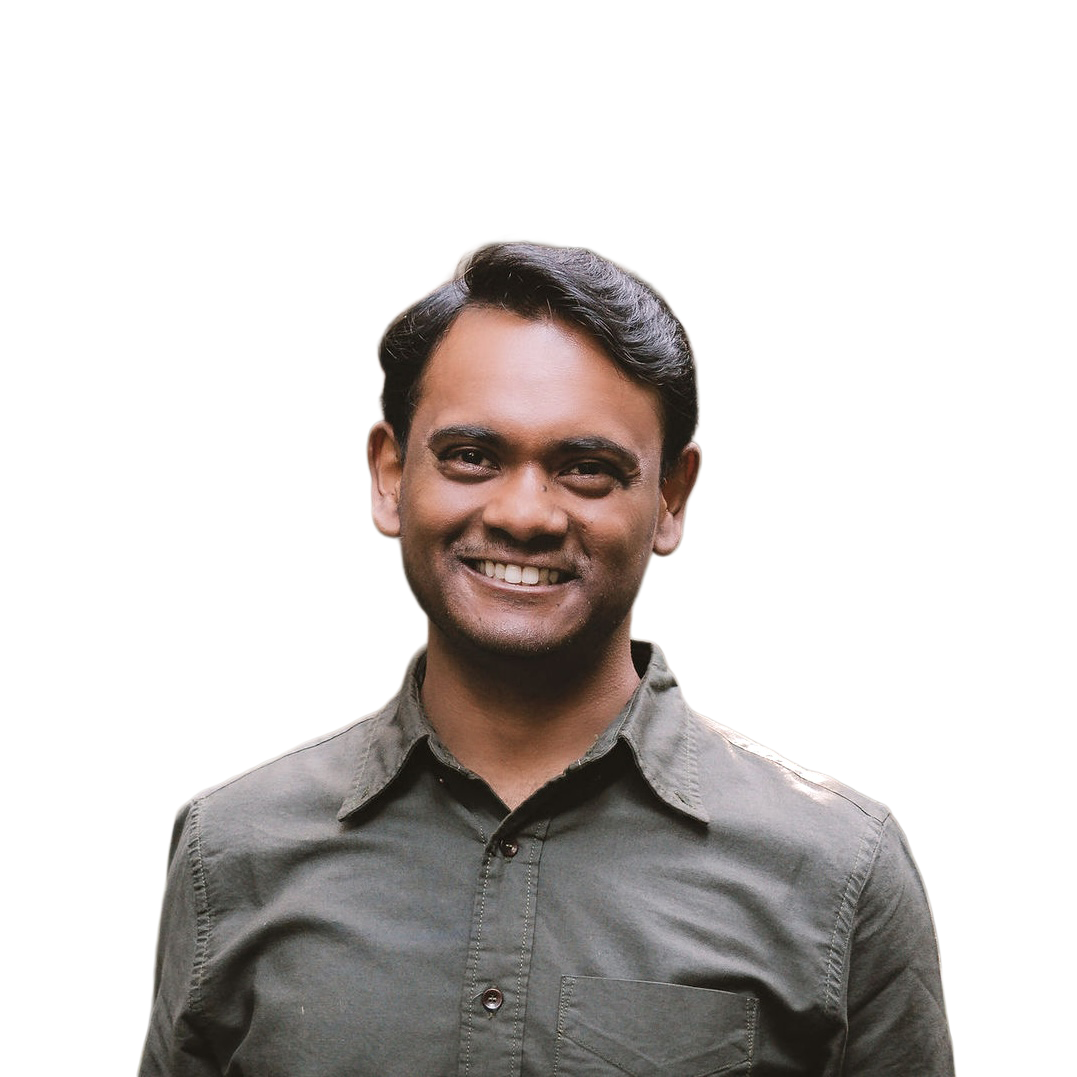
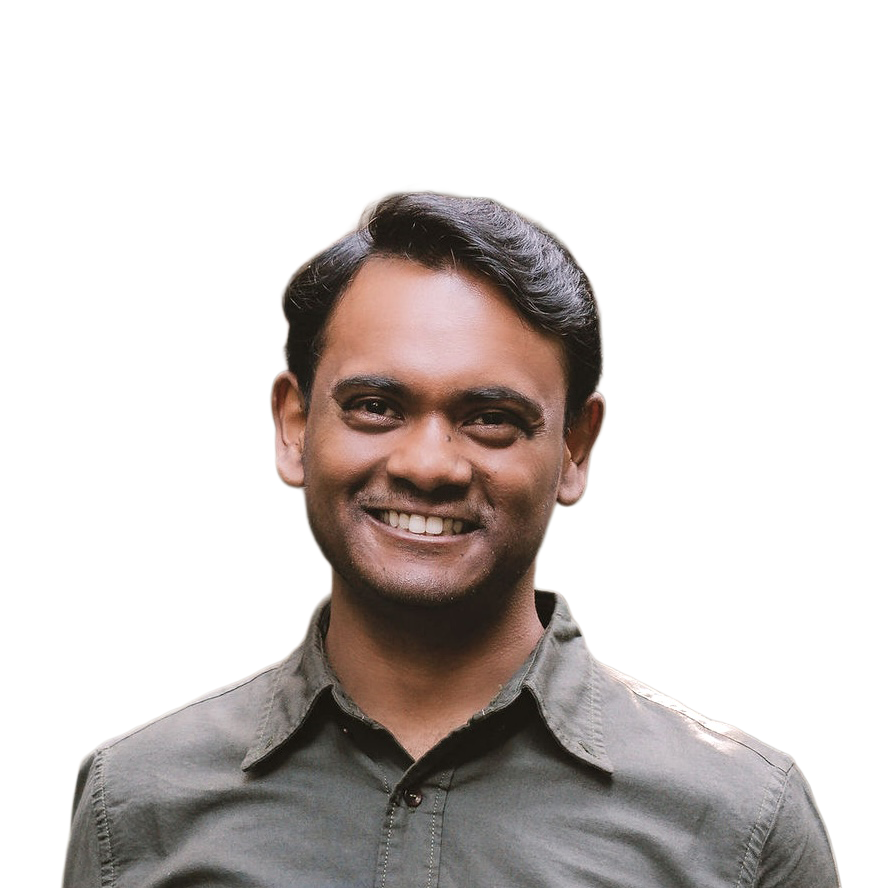
fix: simplify bg

diff --git a/src/pages/Home.tsx b/src/pages/Home.tsx
@@ -43,21 +43,6 @@ interface Post {
 export const Home = () => {
   const highlightColor = useColorModeValue(accent.light, accent.dark);
 
-  // Create a more realistic gradient with better color stops
-  const gradientStartColor = useColorModeValue(
-    "#E8F1F8", // subtle blue tint at center
-    "#4A433B", // lighter brown at center for depth
-  );
-  const gradientMidColor = useColorModeValue(
-    "#F5F8FB", // intermediate light blue
-    "#3A332B", // base dark brown
-  );
-  const gradientEndColor = useColorModeValue(
-    "#FFFFFF", // pure white at edges for seamless blend
-    "rgba(0, 0, 0, 0.4)", // darker shadow at edges
-  );
-  const borderColor = useColorModeValue("gray.100", "accentBackground");
-
   const featuredPosts = (featuredData as Post[]).filter(
     (post) => post.featured,
   );
@@ -80,14 +65,8 @@ export const Home = () => {
                 overflow="hidden"
                 boxShadow="lg"
                 border="1px solid"
-                borderColor={borderColor}
-                css={{
-                  background: `radial-gradient(ellipse 80% 100% at 50% 40%, 
-                    ${gradientStartColor} 0%,
-                    ${gradientStartColor} 30%,
-                    ${gradientMidColor} 60%,
-                    ${gradientEndColor} 100%)`,
-                }}
+                borderColor="accentBackground"
+                bgColor="accentBackground"
               >
                 <Image
                   src="profile.png"
